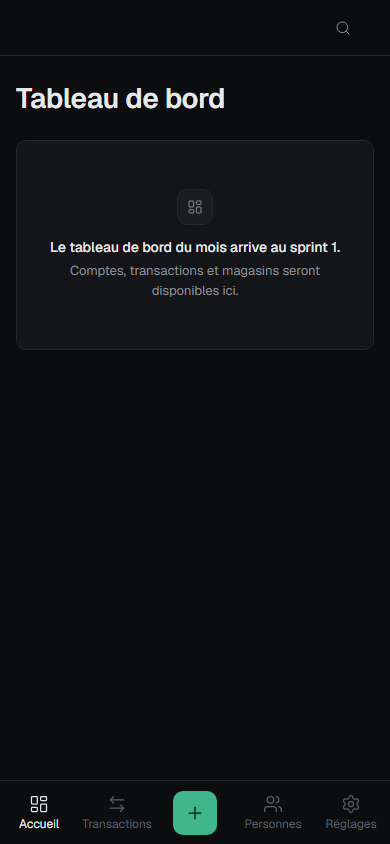
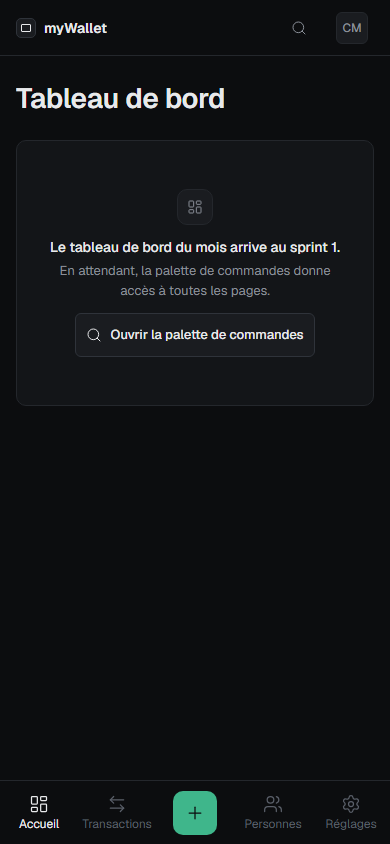
fix(ui): address ui-reviewer findings
- neutral logo mark (accent reserved for income, actions and focus)
- mobile topbar shows the brand and an account menu with sign-out
- dashboard empty state gets an action (open the command palette)
- 1px accent focus ring on inputs, 44px touch targets on auth links
- /design: non-amount type sample, amount column kept visible on mobile
- e2e: allow slow first dev compile after sign-up; refreshed screenshots

diff --git a/src/app/design/showcase.tsx b/src/app/design/showcase.tsx
@@ -57,7 +57,7 @@ const TOKENS = [
 ] as const;
 
 const TYPE_SCALE = [
-  [40, "text-2xl", "Solde 12 480,00 €"],
+  [40, "text-2xl", "Vue du mois"],
   [28, "text-xl", "Titre de page"],
   [20, "text-lg", "Titre de section"],
   [16, "text-md", "Texte d'accent"],
@@ -130,7 +130,7 @@ export function DesignShowcase() {
           {TYPE_SCALE.map(([px, cls, sample]) => (
             <div key={px} className="flex items-baseline gap-6 px-4 py-3">
               <span className="num w-10 shrink-0 text-xs text-subtle">{px}</span>
-              <span className={`${cls} truncate font-medium`}>{sample}</span>
+              <span className={`${cls} min-w-0 font-medium`}>{sample}</span>
             </div>
           ))}
           <div className="flex items-baseline gap-6 px-4 py-3">
@@ -241,9 +241,9 @@ export function DesignShowcase() {
             <TableHeader>
               <TableRow className="h-9 hover:bg-transparent">
                 <TableHead>Magasin</TableHead>
-                <TableHead>Catégorie</TableHead>
+                <TableHead className="max-sm:hidden">Catégorie</TableHead>
                 <TableHead>Date</TableHead>
-                <TableHead>Partage</TableHead>
+                <TableHead className="max-sm:hidden">Partage</TableHead>
                 <TableHead data-align="right">Montant</TableHead>
               </TableRow>
             </TableHeader>
@@ -256,9 +256,11 @@ export function DesignShowcase() {
                       <span className="font-medium">{r.merchant}</span>
                     </span>
                   </TableCell>
-                  <TableCell className="text-muted">{r.category}</TableCell>
+                  <TableCell className="text-muted max-sm:hidden">{r.category}</TableCell>
                   <TableCell className="text-muted">{formatDateFr(r.date)}</TableCell>
-                  <TableCell>{r.claim ? <ClaimBadge status={r.claim} /> : null}</TableCell>
+                  <TableCell className="max-sm:hidden">
+                    {r.claim ? <ClaimBadge status={r.claim} /> : null}
+                  </TableCell>
                   <TableCell data-align="right">
                     <Amount cents={r.cents} variant="flow" />
                   </TableCell>

diff --git a/src/components/shell/mobile-user-menu.tsx b/src/components/shell/mobile-user-menu.tsx
@@ -1,0 +1,43 @@
+"use client";
+
+import { LogOut } from "lucide-react";
+import { DropdownMenu } from "radix-ui";
+import { merchantInitials } from "@/lib/domain/merchant";
+import { useSignOut } from "./sign-out";
+
+/** Menu utilisateur de la barre supérieure mobile (la barre latérale est masquée). */
+export function MobileUserMenu({ name, email }: { name: string; email: string }) {
+  const signOut = useSignOut();
+  return (
+    <DropdownMenu.Root>
+      <DropdownMenu.Trigger
+        aria-label={`Compte de ${name}`}
+        className="flex size-11 items-center justify-center rounded-sm md:hidden"
+      >
+        <span className="flex size-8 items-center justify-center rounded-sm border border-border bg-surface-2 text-xs font-medium text-muted">
+          {merchantInitials(name)}
+        </span>
+      </DropdownMenu.Trigger>
+      <DropdownMenu.Portal>
+        <DropdownMenu.Content
+          align="end"
+          sideOffset={4}
+          className="z-50 min-w-56 rounded-md border border-border-strong bg-surface-2 p-1 data-[state=open]:animate-fade-in"
+        >
+          <div className="flex flex-col px-2 py-2">
+            <span className="truncate text-sm font-medium">{name}</span>
+            <span className="truncate text-xs text-muted">{email}</span>
+          </div>
+          <DropdownMenu.Separator className="my-1 h-px bg-border" />
+          <DropdownMenu.Item
+            onSelect={() => void signOut()}
+            className="flex h-11 cursor-default items-center gap-2 rounded-sm px-2 text-base text-muted outline-none select-none data-[highlighted]:bg-surface data-[highlighted]:text-text"
+          >
+            <LogOut className="size-4" aria-hidden />
+            Se déconnecter
+          </DropdownMenu.Item>
+        </DropdownMenu.Content>
+      </DropdownMenu.Portal>
+    </DropdownMenu.Root>
+  );
+}

diff --git a/src/app/(app)/layout.tsx b/src/app/(app)/layout.tsx
@@ -1,5 +1,6 @@
 import { Suspense, type ReactNode } from "react";
 import { AppShell } from "@/components/shell/app-shell";
+import { MobileUserMenu } from "@/components/shell/mobile-user-menu";
 import { UserMenu } from "@/components/shell/user-menu";
 import { Skeleton } from "@/components/ui/skeleton";
 import { requireUser } from "@/lib/auth/session";
@@ -14,6 +15,11 @@ export default function AppLayout({ children }: LayoutProps<"/">) {
       userMenu={
         <Suspense fallback={<Skeleton className="h-9 w-full" />}>
           <CurrentUserMenu />
+        </Suspense>
+      }
+      topbarActions={
+        <Suspense fallback={<Skeleton className="size-8 md:hidden" />}>
+          <CurrentMobileUserMenu />
         </Suspense>
       }
     >
@@ -32,6 +38,11 @@ async function AuthGate({ children }: { children: ReactNode }) {
 async function CurrentUserMenu() {
   const user = await requireUser();
   return <UserMenu name={user.name} email={user.email} />;
+}
+
+async function CurrentMobileUserMenu() {
+  const user = await requireUser();
+  return <MobileUserMenu name={user.name} email={user.email} />;
 }
 
 function ContentSkeleton() {

diff --git a/src/components/shell/topbar.tsx b/src/components/shell/topbar.tsx
@@ -1,15 +1,21 @@
 "use client";
 
 import { Search } from "lucide-react";
+import Link from "next/link";
 import type { ReactNode } from "react";
 import { Kbd } from "@/components/ui/kbd";
+import { LogoMark } from "@/components/ui/logo";
 import { useCommandPalette } from "./command-palette";
 
 export function Topbar({ title, actions }: { title?: string; actions?: ReactNode }) {
   const palette = useCommandPalette();
   return (
     <header className="sticky top-0 z-30 flex h-14 items-center gap-3 border-b border-border bg-bg px-4 md:px-6">
-      {title && <h1 className="truncate text-md font-semibold md:hidden">{title}</h1>}
+      {/* Mobile : la barre latérale est masquée, la marque passe dans la barre supérieure. */}
+      <Link href="/" className="flex items-center gap-2 text-base font-semibold md:hidden">
+        <LogoMark />
+        {title ?? "myWallet"}
+      </Link>
       <button
         type="button"
         onClick={palette.open}

diff --git a/src/components/shell/sidebar.tsx b/src/components/shell/sidebar.tsx
@@ -4,6 +4,7 @@ import { PanelLeftClose, PanelLeftOpen } from "lucide-react";
 import Link from "next/link";
 import { usePathname } from "next/navigation";
 import { useEffect, useState, type ReactNode } from "react";
+import { LogoMark } from "@/components/ui/logo";
 import { cn } from "@/lib/utils";
 import { isActive, isAvailable, NAV_ITEMS } from "./nav";
 
@@ -49,12 +50,7 @@ export function Sidebar({ footer }: { footer?: ReactNode }) {
             collapsed && "sr-only",
           )}
         >
-          <span
-            aria-hidden
-            className="flex size-5 items-center justify-center rounded-[4px] bg-accent"
-          >
-            <span className="h-2 w-2.5 rounded-[1px] border-[1.5px] border-bg" />
-          </span>
+          <LogoMark />
           myWallet
         </Link>
         <button

diff --git a/src/app/(app)/page.tsx b/src/app/(app)/page.tsx
@@ -1,5 +1,6 @@
 import { LayoutDashboard } from "lucide-react";
 import { PageHeader } from "@/components/shell/app-shell";
+import { OpenPaletteButton } from "@/components/shell/open-palette-button";
 import { Card } from "@/components/ui/card";
 import { EmptyState } from "@/components/ui/empty-state";
 
@@ -11,7 +12,8 @@ export default function DashboardPage() {
         <EmptyState
           icon={LayoutDashboard}
           title="Le tableau de bord du mois arrive au sprint 1."
-          description="Comptes, transactions et magasins seront disponibles ici."
+          description="En attendant, la palette de commandes donne accès à toutes les pages."
+          action={<OpenPaletteButton />}
         />
       </Card>
     </>

diff --git a/src/components/ui/input.tsx b/src/components/ui/input.tsx
@@ -6,7 +6,8 @@ import { cn } from "@/lib/utils";
 export const inputClass = cn(
   "h-8 w-full min-w-0 rounded-sm border border-border-strong bg-surface px-2.5 text-base text-text",
   "transition-colors duration-[var(--duration-fast)] outline-none",
-  "hover:border-muted/40 focus-visible:border-accent focus-visible:outline-none",
+  // Anneau de focus accent (charte) : bordure + contour de 1 px, sans halo.
+  "hover:border-muted/40 focus-visible:border-accent focus-visible:outline-1 focus-visible:outline-offset-0 focus-visible:outline-accent focus-visible:outline-solid",
   "disabled:cursor-not-allowed disabled:opacity-50",
   "aria-invalid:border-danger",
   "pointer-coarse:h-11 pointer-coarse:text-md",

diff --git a/src/app/(auth)/layout.tsx b/src/app/(auth)/layout.tsx
@@ -1,13 +1,10 @@
+import { LogoMark } from "@/components/ui/logo";
+
 export default function AuthLayout({ children }: LayoutProps<"/">) {
   return (
     <main className="flex min-h-dvh flex-col items-center justify-center px-4 py-12">
       <div className="mb-8 flex items-center gap-2 text-md font-semibold">
-        <span
-          aria-hidden
-          className="flex size-6 items-center justify-center rounded-[5px] bg-accent"
-        >
-          <span className="h-2.5 w-3 rounded-[1px] border-[1.5px] border-bg" />
-        </span>
+        <LogoMark size={24} />
         myWallet
       </div>
       <div className="w-full max-w-sm rounded-md border border-border bg-surface">{children}</div>

diff --git a/src/components/ui/logo.tsx b/src/components/ui/logo.tsx
@@ -1,0 +1,22 @@
+import { cn } from "@/lib/utils";
+
+/** Marque myWallet : pastille neutre (l'accent est réservé aux entrées, actions et focus). */
+export function LogoMark({ size = 20, className }: { size?: 20 | 24; className?: string }) {
+  return (
+    <span
+      aria-hidden
+      className={cn(
+        "flex shrink-0 items-center justify-center rounded-[5px] border border-border-strong bg-surface-2",
+        size === 24 ? "size-6" : "size-5",
+        className,
+      )}
+    >
+      <span
+        className={cn(
+          "rounded-[1px] border-[1.5px] border-text",
+          size === 24 ? "h-2.5 w-3" : "h-2 w-2.5",
+        )}
+      />
+    </span>
+  );
+}

diff --git a/e2e/auth.spec.ts b/e2e/auth.spec.ts
@@ -21,7 +21,8 @@ test.describe("authentification", () => {
     await page.getByLabel("Mot de passe").fill(password);
     await page.getByRole("button", { name: "Créer mon compte" }).click();
 
-    await expect(page).toHaveURL(/\/$/);
+    // Première navigation vers l'espace connecté : en dev, compilation à la demande (lente).
+    await expect(page).toHaveURL(/\/$/, { timeout: 60_000 });
     await expect(page.getByRole("heading", { name: "Tableau de bord" })).toBeVisible();
 
     // Déconnexion via la palette de commandes (fonctionne sur desktop et mobile).

diff --git a/src/app/(auth)/auth-form.tsx b/src/app/(auth)/auth-form.tsx
@@ -129,7 +129,7 @@ export function AuthForm({ mode }: { mode: Mode }) {
         {isSignUp ? "Déjà un compte ? " : "Pas encore de compte ? "}
         <Link
           href={isSignUp ? "/connexion" : "/inscription"}
-          className="text-text underline-offset-4 hover:underline"
+          className="inline-flex items-center text-text underline-offset-4 hover:underline pointer-coarse:min-h-11 pointer-coarse:px-1"
         >
           {isSignUp ? "Se connecter" : "Créer un compte"}
         </Link>

diff --git a/src/components/shell/open-palette-button.tsx b/src/components/shell/open-palette-button.tsx
@@ -1,0 +1,18 @@
+"use client";
+
+import { Search } from "lucide-react";
+import { Button } from "@/components/ui/button";
+import { useCommandPalette } from "./command-palette";
+
+export function OpenPaletteButton({
+  label = "Ouvrir la palette de commandes",
+}: {
+  label?: string;
+}) {
+  const palette = useCommandPalette();
+  return (
+    <Button size="sm" onClick={palette.open}>
+      <Search /> {label}
+    </Button>
+  );
+}
